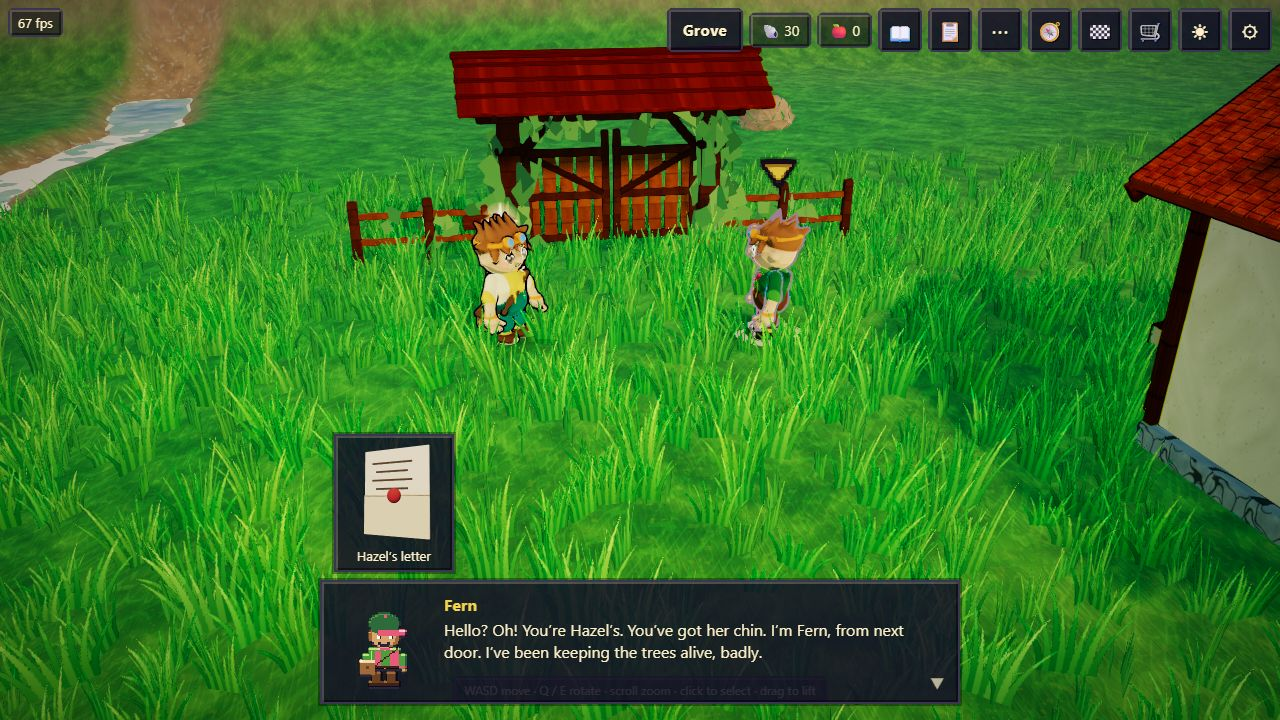
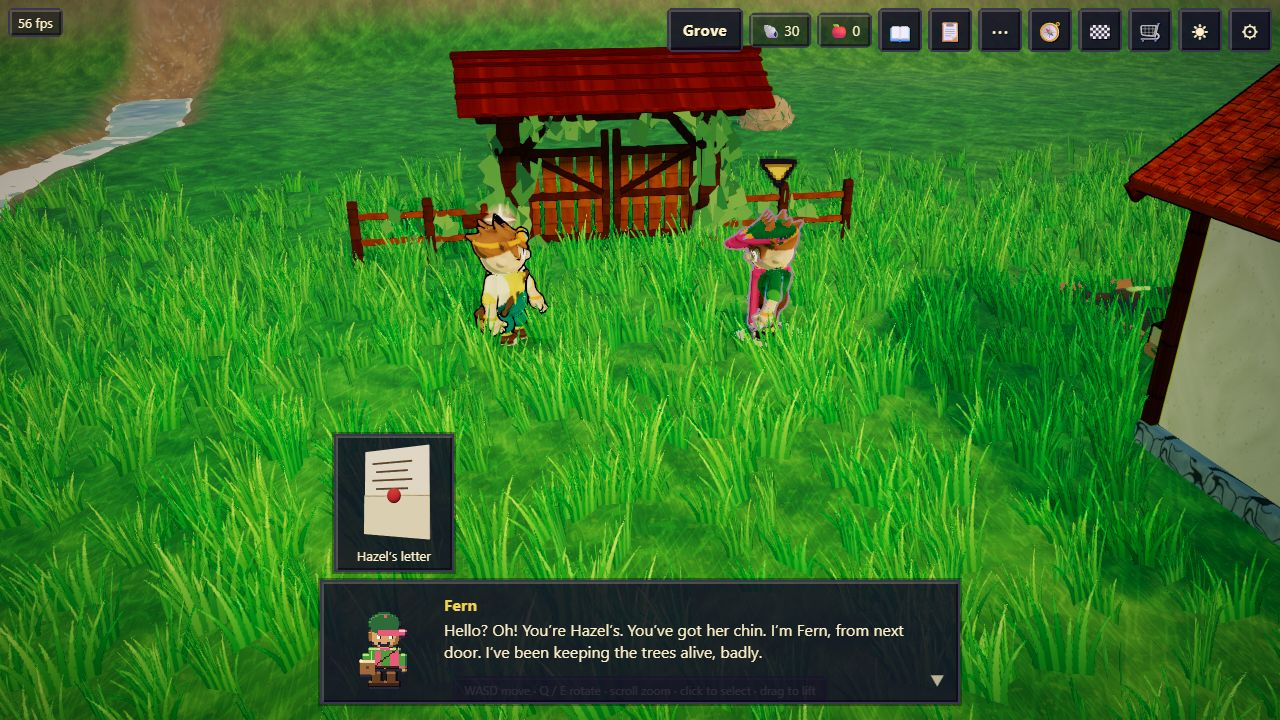
Give Fern's 3D story look a cap and scarf

diff --git a/src/render3d/npc-accessories.ts b/src/render3d/npc-accessories.ts
@@ -404,6 +404,11 @@ export function withNpcAccessories(spec: SpeciesSpec, trainer: string): SpeciesS
       addAntenna(spec, look);
       break;
   }
+  // K4: Fern's story look also wears a green cap and a rose scarf, so she is not the Gardener.
+  if (trainer === 'fern-story') {
+    addCap(spec, { ...look, main: '#2f6a3a', trim: '#d94a7a' });
+    addScarf(spec, { ...look, main: '#d94a7a', trim: '#f3b0c4' });
+  }
   if (look.patches) addPatches(spec);
   return spec;
 }
